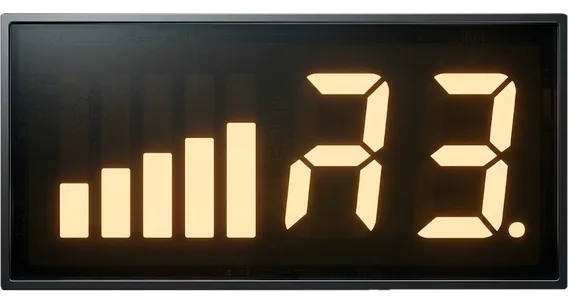
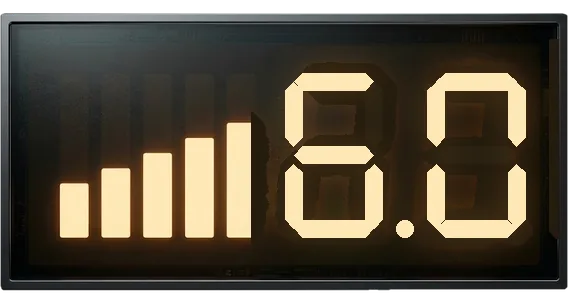
Brighter sun and a readable inverter readout
The sun: SLIDES[i].lum paints a black overlay over the whole scene, so a pure
white sun rendered as a grey disc (255 * (1 - .46) = 138, measured). Layers
flagged top:1 now build into .pw-above, outside .pw-slide -- the transition
gives the active slide a z-index, which makes it a stacking context, and a
z-index inside one cannot lift anything above something outside it. Sun core
now renders 255,255,255.

The inverter LCD: the generated glyphs were not digits. draw_lcd() keeps the
bar graph and backlit glass and paints a real seven-segment 6.0 over them,
matching the 6 kW in the copy. The bloom is built from the lit segments alone
(built from all of them, the dark ones glowed and every digit read as an 8),
and the wipe threshold is far below the detection one so the old glyphs' glow
does not survive as extra lit segments.

Changed region(s): [[0.419, 0.2072, 0.9278, 0.7993], [0.9577, 0.1184, 0.9877, 0.7993]]

diff --git a/index.html b/index.html
@@ -37,6 +37,11 @@
   .pw-scene,.pw-fx{position:absolute;left:50%;top:50%;width:1280px;height:900px;transform:translate(-50%,-50%) scale(var(--s))}
   /* the current sits above the dimmer — it is the brightest thing on screen */
   .pw-fx{pointer-events:none;z-index:13}
+  /* Layers flagged top:1 ride above the dimmer: a light source should not be dimmed by how
+     lit the scene it is lighting happens to be. This has to live OUTSIDE .pw-slide — the
+     transition gives the active slide a z-index, which makes it a stacking context, and
+     nothing inside one can be raised above something outside it. */
+  .pw-above{position:absolute;inset:0;z-index:11;pointer-events:none;visibility:hidden}
   .pw-layer{position:absolute;will-change:transform,opacity}
   .pw-layer img{position:absolute;inset:0;width:100%;height:100%;object-fit:contain;pointer-events:none;user-select:none}
   .pw-layer .gl{position:absolute;inset:-18%;border-radius:50%;opacity:0;pointer-events:none;
@@ -219,6 +224,7 @@
   </div>
 
   <div class="pw-lum" id="lum"></div>
+  <div class="pw-above" id="above"></div>
   <div class="pw-flash" id="flash"></div>
   <div class="pw-scrim"></div>
 
@@ -362,7 +368,7 @@ const LAYOUT = {
   ],
 
   panels:[
-    L('sun',       922, 136,  226, 226, 'sun',   { label:'sun<br>226×226', glow:.5,
+    L('sun',       922, 136,  226, 226, 'sun',   { label:'sun<br>226×226', glow:.5, top:1,
                                                    in:{ delay:.1, dur:1.6, ease:'power2.out', from:{ x:'right', y:-120, rotation:-90, opacity:0 } }, out:{ dur:1.1, to:{ x:'right', rotation:90, opacity:0 } } }),
     L('cloud',     104, 126,  306, 122, 'cloud', { label:'cloud<br>306×122', in:{ delay:0, dur:1.9, ease:'power1.out', from:{ x:'left', opacity:0 } }, out:{ dur:1.3, to:{ x:-420, opacity:0 } } }),
     L('beam1',     372,  72,   46, 300, 'beam',  { label:'', rot:16, in:{ delay:.85, dur:.9, ease:'power2.out', from:{ scaleY:0, opacity:0 } }, out:{ dur:.5, to:{ scaleY:0, opacity:0 } } }),
@@ -440,6 +446,7 @@ const thumbsN = document.getElementById('thumbs');
 const spark   = document.getElementById('spark');
 const flash   = document.getElementById('flash');
 const lumEl   = document.getElementById('lum');
+const aboveEl = document.getElementById('above');
 const kwhEl   = document.getElementById('kwh');
 const barsEl  = document.getElementById('bars');
 const progEl  = document.getElementById('prog');
@@ -472,6 +479,9 @@ const slides = SLIDES.map((s, i) => {
 
   const scene = document.createElement('div');
   scene.className = 'pw-scene';
+  const sceneTop = document.createElement('div');
+  sceneTop.className = 'pw-scene';
+  aboveEl.appendChild(sceneTop);
 
   const layers = (LAYOUT[s.key] || []).map(def => {
     const d = document.createElement('div');
@@ -485,7 +495,7 @@ const slides = SLIDES.map((s, i) => {
     let gl = null;
     if (def.glow != null) { gl = document.createElement('i'); gl.className = 'gl'; d.appendChild(gl); }
     gsap.set(d, rest(def));
-    scene.appendChild(d);
+    (def.top ? sceneTop : scene).appendChild(d);
     return { el:d, gl, L:def };
   });
 
@@ -523,7 +533,7 @@ const slides = SLIDES.map((s, i) => {
   th.addEventListener('click', () => goTo(i));
   thumbsN.appendChild(th);
 
-  return { el, bg, scene, layers, pins, text:t, lines:[...t.querySelectorAll('[data-y]')], thumb:th, data:s };
+  return { el, bg, scene, top:sceneTop, layers, pins, text:t, lines:[...t.querySelectorAll('[data-y]')], thumb:th, data:s };
 });
 
 /* ---- helpers --------------------------------------------------------- */
@@ -645,6 +655,7 @@ function goTo(next, dir) {
   from.el.style.zIndex = 2;
   to.el.style.zIndex   = 3;
   to.el.style.visibility = 'visible';
+  to.top.style.visibility = 'visible';
 
   layersPrep(to, dir);
   surge(dir);
@@ -658,7 +669,7 @@ function goTo(next, dir) {
   readouts(to, next);
 
   gsap.delayedCall(T.lock, () => {
-    if (slides[cur] !== from) from.el.style.visibility = 'hidden';
+    if (slides[cur] !== from) { from.el.style.visibility = 'hidden'; from.top.style.visibility = 'hidden'; }
     busy = false;
     if (AUTO) queue();
   });
@@ -684,6 +695,7 @@ document.getElementById('lang').addEventListener('click', e => {
 
 /* ---- intro ----------------------------------------------------------- */
 slides[0].el.style.visibility = 'visible';
+slides[0].top.style.visibility = 'visible';
 slides[0].el.style.zIndex = 3;
 slides[0].thumb.classList.add('is-active');
 layersPrep(slides[0], 1);
@@ -695,7 +707,7 @@ readouts(slides[0], 0);
 function fit() {
   const r = stage.getBoundingClientRect();
   const s = Math.max(r.width / W, r.height / H);
-  document.querySelectorAll('.pw-stage, .pw-fx').forEach(n => n.style.setProperty('--s', s));
+  document.querySelectorAll('.pw-stage, .pw-fx, .pw-above').forEach(n => n.style.setProperty('--s', s));
 }
 fit();
 addEventListener('resize', fit);

diff --git a/index.src.html b/index.src.html
@@ -37,6 +37,11 @@
   .pw-scene,.pw-fx{position:absolute;left:50%;top:50%;width:1280px;height:900px;transform:translate(-50%,-50%) scale(var(--s))}
   /* the current sits above the dimmer — it is the brightest thing on screen */
   .pw-fx{pointer-events:none;z-index:13}
+  /* Layers flagged top:1 ride above the dimmer: a light source should not be dimmed by how
+     lit the scene it is lighting happens to be. This has to live OUTSIDE .pw-slide — the
+     transition gives the active slide a z-index, which makes it a stacking context, and
+     nothing inside one can be raised above something outside it. */
+  .pw-above{position:absolute;inset:0;z-index:11;pointer-events:none;visibility:hidden}
   .pw-layer{position:absolute;will-change:transform,opacity}
   .pw-layer img{position:absolute;inset:0;width:100%;height:100%;object-fit:contain;pointer-events:none;user-select:none}
   .pw-layer .gl{position:absolute;inset:-18%;border-radius:50%;opacity:0;pointer-events:none;
@@ -219,6 +224,7 @@
   </div>
 
   <div class="pw-lum" id="lum"></div>
+  <div class="pw-above" id="above"></div>
   <div class="pw-flash" id="flash"></div>
   <div class="pw-scrim"></div>
 
@@ -362,7 +368,7 @@ const LAYOUT = {
   ],
 
   panels:[
-    L('sun',       922, 136,  226, 226, 'sun',   { label:'sun<br>226×226', glow:.5,
+    L('sun',       922, 136,  226, 226, 'sun',   { label:'sun<br>226×226', glow:.5, top:1,
                                                    in:{ delay:.1, dur:1.6, ease:'power2.out', from:{ x:'right', y:-120, rotation:-90, opacity:0 } }, out:{ dur:1.1, to:{ x:'right', rotation:90, opacity:0 } } }),
     L('cloud',     104, 126,  306, 122, 'cloud', { label:'cloud<br>306×122', in:{ delay:0, dur:1.9, ease:'power1.out', from:{ x:'left', opacity:0 } }, out:{ dur:1.3, to:{ x:-420, opacity:0 } } }),
     L('beam1',     372,  72,   46, 300, 'beam',  { label:'', rot:16, in:{ delay:.85, dur:.9, ease:'power2.out', from:{ scaleY:0, opacity:0 } }, out:{ dur:.5, to:{ scaleY:0, opacity:0 } } }),
@@ -440,6 +446,7 @@ const thumbsN = document.getElementById('thumbs');
 const spark   = document.getElementById('spark');
 const flash   = document.getElementById('flash');
 const lumEl   = document.getElementById('lum');
+const aboveEl = document.getElementById('above');
 const kwhEl   = document.getElementById('kwh');
 const barsEl  = document.getElementById('bars');
 const progEl  = document.getElementById('prog');
@@ -472,6 +479,9 @@ const slides = SLIDES.map((s, i) => {
 
   const scene = document.createElement('div');
   scene.className = 'pw-scene';
+  const sceneTop = document.createElement('div');
+  sceneTop.className = 'pw-scene';
+  aboveEl.appendChild(sceneTop);
 
   const layers = (LAYOUT[s.key] || []).map(def => {
     const d = document.createElement('div');
@@ -485,7 +495,7 @@ const slides = SLIDES.map((s, i) => {
     let gl = null;
     if (def.glow != null) { gl = document.createElement('i'); gl.className = 'gl'; d.appendChild(gl); }
     gsap.set(d, rest(def));
-    scene.appendChild(d);
+    (def.top ? sceneTop : scene).appendChild(d);
     return { el:d, gl, L:def };
   });
 
@@ -523,7 +533,7 @@ const slides = SLIDES.map((s, i) => {
   th.addEventListener('click', () => goTo(i));
   thumbsN.appendChild(th);
 
-  return { el, bg, scene, layers, pins, text:t, lines:[...t.querySelectorAll('[data-y]')], thumb:th, data:s };
+  return { el, bg, scene, top:sceneTop, layers, pins, text:t, lines:[...t.querySelectorAll('[data-y]')], thumb:th, data:s };
 });
 
 /* ---- helpers --------------------------------------------------------- */
@@ -645,6 +655,7 @@ function goTo(next, dir) {
   from.el.style.zIndex = 2;
   to.el.style.zIndex   = 3;
   to.el.style.visibility = 'visible';
+  to.top.style.visibility = 'visible';
 
   layersPrep(to, dir);
   surge(dir);
@@ -658,7 +669,7 @@ function goTo(next, dir) {
   readouts(to, next);
 
   gsap.delayedCall(T.lock, () => {
-    if (slides[cur] !== from) from.el.style.visibility = 'hidden';
+    if (slides[cur] !== from) { from.el.style.visibility = 'hidden'; from.top.style.visibility = 'hidden'; }
     busy = false;
     if (AUTO) queue();
   });
@@ -684,6 +695,7 @@ document.getElementById('lang').addEventListener('click', e => {
 
 /* ---- intro ----------------------------------------------------------- */
 slides[0].el.style.visibility = 'visible';
+slides[0].top.style.visibility = 'visible';
 slides[0].el.style.zIndex = 3;
 slides[0].thumb.classList.add('is-active');
 layersPrep(slides[0], 1);
@@ -695,7 +707,7 @@ readouts(slides[0], 0);
 function fit() {
   const r = stage.getBoundingClientRect();
   const s = Math.max(r.width / W, r.height / H);
-  document.querySelectorAll('.pw-stage, .pw-fx').forEach(n => n.style.setProperty('--s', s));
+  document.querySelectorAll('.pw-stage, .pw-fx, .pw-above').forEach(n => n.style.setProperty('--s', s));
 }
 fit();
 addEventListener('resize', fit);

diff --git a/_gen/probe.js b/_gen/probe.js
@@ -1,0 +1,30 @@
+const { spawn } = require('child_process'), fs=require('fs'), path=require('path'), os=require('os');
+const CHROME=['C:/Program Files/Google/Chrome/Application/chrome.exe','C:/Program Files (x86)/Google/Chrome/Application/chrome.exe'].find(fs.existsSync);
+const PORT=9700+(process.pid%200), PROFILE=path.join(os.tmpdir(),'probe-'+Date.now().toString(36));
+const root=path.resolve(__dirname,'..');
+const url='file:///'+path.join(root,'index.html').split(String.fromCharCode(92)).join('/');
+const sleep=ms=>new Promise(r=>setTimeout(r,ms));
+(async()=>{
+  const ch=spawn(CHROME,['--headless=new',`--remote-debugging-port=${PORT}`,`--user-data-dir=${PROFILE}`,'--allow-file-access-from-files','about:blank'],{stdio:'ignore'});
+  let t; for(let i=0;i<60&&!t;i++){await sleep(250);try{t=await (await fetch(`http://127.0.0.1:${PORT}/json`)).json()}catch{}}
+  const ws=new WebSocket(t.find(x=>x.type==='page').webSocketDebuggerUrl);
+  await new Promise(r=>ws.onopen=r);
+  let n=0; const p={}; ws.onmessage=e=>{const m=JSON.parse(e.data); if(p[m.id]){p[m.id](m.result||m.error); delete p[m.id]}};
+  const send=(method,params={})=>new Promise(r=>{p[++n]=r; ws.send(JSON.stringify({id:n,method,params}))});
+  await send('Runtime.enable'); await send('Page.enable');
+  await send('Emulation.setDeviceMetricsOverride',{width:1440,height:810,deviceScaleFactor:1,mobile:false});
+  await send('Page.navigate',{url}); await sleep(2500);
+  await send('Runtime.evaluate',{expression:'window.pw&&window.pw.goTo(1)'}); await sleep(1800);
+  const q=(e)=>send('Runtime.evaluate',{expression:e,returnByValue:true});
+  let r=await q("(()=>{const l=document.getElementById('lum');const c=getComputedStyle(l);return JSON.stringify({z:c.zIndex,op:c.opacity,pos:c.position,parent:l.parentElement.className,idx:[...l.parentElement.children].indexOf(l),stageIdx:[...l.parentElement.children].findIndex(n=>n.id==='stage')})})()");
+  console.log('LUM', r.result.value);
+  const shot=async(tag)=>{const s=await send('Page.captureScreenshot',{format:'png'});require('fs').writeFileSync(require('path').join(root,'_shots','probe-'+tag+'.png'),Buffer.from(s.data,'base64'));};
+  r=await q("(()=>{const el=[...document.querySelectorAll('[data-layer=\"sun\"]')].find(n=>n.offsetParent!==null)||document.querySelector('[data-layer=\"sun\"]');const out=[];let e=el;while(e&&e!==document.documentElement){const c=getComputedStyle(e);out.push(e.className+' z='+c.zIndex+' tr='+(c.transform==='none'?'-':'YES')+' op='+c.opacity+' wc='+c.willChange+' vis='+c.visibility);e=e.parentElement;}return out.join(String.fromCharCode(10));})()");
+  console.log('CHAIN AFTER goTo(1):'); console.log(r.result.value);
+  await shot('with');
+  await q("document.getElementById('lum').style.opacity=0");
+  await sleep(300);
+  await shot('without');
+  ws.close(); ch.kill(); try{fs.rmSync(PROFILE,{recursive:true,force:true})}catch{}
+  process.exit(0);
+})().catch(e=>{console.error(e);process.exit(1)});

diff --git a/_gen/cut.py b/_gen/cut.py
@@ -52,6 +52,96 @@ def fix_slots(name, found, want):
     return found
 
 
+SEG = {'0': 'ABCDEF', '1': 'BC', '2': 'ABGED', '3': 'ABGCD', '4': 'FGBC',
+       '5': 'AFGCD', '6': 'AFGEDC', '7': 'ABC', '8': 'ABCDEFG', '9': 'ABCDFG'}
+LIT, DIM, BLOOM = (254, 232, 182), (58, 48, 28), (255, 168, 60)
+
+
+def _seg_polys(x, y, w, h, t, g=None):
+    """the seven chamfered bars of a seven-segment digit, keyed A-G"""
+    g = round(t * 0.55) if g is None else g
+    m, hw = y + h / 2, t / 2
+    def hor(cy):
+        return [(x + g, cy), (x + hw + g, cy - hw), (x + w - hw - g, cy - hw),
+                (x + w - g, cy), (x + w - hw - g, cy + hw), (x + hw + g, cy + hw)]
+    def ver(cx, y0, y1):
+        return [(cx, y0 + g), (cx + hw, y0 + hw + g), (cx + hw, y1 - hw - g),
+                (cx, y1 - g), (cx - hw, y1 - hw - g), (cx - hw, y0 + hw + g)]
+    return {'A': hor(y + hw), 'D': hor(y + h - hw), 'G': hor(m),
+            'F': ver(x + hw, y, m), 'B': ver(x + w - hw, y, m),
+            'E': ver(x + hw, m, y + h), 'C': ver(x + w - hw, m, y + h)}
+
+
+def draw_lcd(img, text='6.0'):
+    """Repaint the inverter's digits. Gemini renders plausible-looking glyphs that are not
+    actually numbers, and no prompt fixes that, so the readout is drawn instead. The bar
+    graph and the backlit glass it came back with are kept."""
+    from PIL import ImageDraw, ImageFilter
+    a = np.asarray(img.convert('RGBA')).astype(int)
+    lit = (a[..., :3].mean(2) > 150) & (a[..., 3] > 200)
+    col = lit.sum(0)
+    runs, s = [], None                                   # lit column runs: bars, then digits
+    for x, v in enumerate(np.append(col, 0)):
+        if v and s is None: s = x
+        elif not v and s is not None: runs.append((s, x)); s = None
+    runs = [r for r in runs if r[1] - r[0] > 8]
+    if len(runs) < 2:
+        return img
+    x0, x1 = runs[1][0], runs[-1][1]                     # everything right of the bar graph
+    ys = np.where(lit[:, x0:x1].any(1))[0]
+    y0, y1 = int(ys.min()), int(ys.max())
+    h = y1 - y0
+    t = max(5, round(h * 0.105))
+
+    # Wipe only the pixels the old glyphs actually lit, refilled with the dark glass around
+    # them. A plain rectangle leaves a visible seam: the glass is not one flat colour.
+    # The wipe threshold has to be far lower than the detection one. `lit` finds only the
+    # cores of the old glyphs; their glow and antialiased edges sit around 60-150 and, left
+    # behind, read as extra lit segments -- which is what made the 6 look like an 8.
+    reg = (slice(max(0, y0 - 2 * t), y1 + 2 * t), slice(max(0, x0 - 2 * t), x1 + 2 * t))
+    patch = a[reg].copy()
+    old = ndimage.binary_dilation(patch[..., :3].mean(2) > 55, iterations=max(3, t // 2))
+    dark = patch[..., :3][~old]
+    patch[..., :3][old] = np.median(dark, axis=0) if len(dark) else (26, 23, 14)
+    a[reg] = patch
+    base = Image.fromarray(a.clip(0, 255).astype('uint8'), 'RGBA')
+    d = ImageDraw.Draw(base)
+
+    glyphs = [c for c in text if c != '.']
+    dots = text.count('.')
+    gap = round(t * 0.8)
+    dw = (x1 - x0 - gap * (len(glyphs) - 1) - dots * (t + gap)) / len(glyphs)
+    # lit and unlit go on separate layers: the bloom is built from the LIT one alone, or the
+    # dark segments glow too and every digit reads as an 8
+    lay = Image.new('RGBA', base.size, (0, 0, 0, 0))
+    off = Image.new('RGBA', base.size, (0, 0, 0, 0))
+    dl, do = ImageDraw.Draw(lay), ImageDraw.Draw(off)
+    cx = x0
+    for c in text:
+        if c == '.':
+            dl.ellipse([cx, y1 - t, cx + t, y1], fill=LIT + (255,))
+            cx += t + gap
+            continue
+        for k, pts in _seg_polys(cx, y0, dw, h, t).items():
+            if k in SEG.get(c, ''):
+                dl.polygon(pts, fill=LIT + (255,))
+            else:
+                do.polygon(pts, fill=DIM + (70,))
+        cx += dw + gap
+
+    # wide and faint, so it reads as glow rather than thickening the stroke
+    bloom = lay.filter(ImageFilter.GaussianBlur(t * 0.85))
+    tint = Image.new('RGBA', base.size, BLOOM + (0,))
+    tint.putalpha(bloom.split()[3].point(lambda v: int(v * 0.22)))
+    base.alpha_composite(off)
+    base.alpha_composite(tint)
+    base.alpha_composite(lay)
+    return base
+
+
+POST = {'inv_screen': draw_lcd}
+
+
 def save(img, dst, maxw, q):
     if img.width > maxw:
         img = img.resize((maxw, round(img.height * maxw / img.width)), Image.LANCZOS)
@@ -226,6 +316,9 @@ for name in names:
         cut, ox, oy, W, H = pad_to(cut, bw / bh, ANCHOR.get(name, 'center'))
 
     img = save(Image.fromarray(cut, 'RGBA'), f'{IMG}/{name}.webp', min(1100, max(320, bw * 2)), Q)
+    if name in POST:                      # drawn at final size: no resample blur on the segments
+        img = POST[name](img)
+        img.save(f'{IMG}/{name}.webp', 'WEBP', quality=Q, method=6, alpha_quality=AQ)
     meta[name] = {'w': img.width, 'h': img.height}
     print(f'{name:<12} {fit:<6} {img.size}  {os.path.getsize(f"{IMG}/{name}.webp")//1024} KB')
 

diff --git a/README.md b/README.md
@@ -37,6 +37,20 @@ Layers that are pure light — `smoke`, `shadow*`, `beam1..3`, `glow_pool` — a
 gradients on purpose. They are atmosphere, not objects, and a render of them keys badly and
 looks worse.
 
+Two things a generator cannot do, so the pipeline does them instead:
+
+- **The inverter's readout is drawn, not generated.** Gemini renders convincing-looking glyphs
+  that are not actually digits, and no wording fixes it. `draw_lcd()` in `cut.py` keeps the
+  render's bar graph and backlit glass, wipes the old glyphs and paints a real seven-segment
+  `6.0` over them. The wipe threshold is far lower than the one used to find the digits: the
+  glow around the old glyphs sits well below it and, left behind, reads as extra lit segments.
+- **The sun is not dimmed.** Each slide has a black `.pw-lum` overlay set from `SLIDES[i].lum`,
+  which turned a pure white sun into a grey disc. Layers flagged `top:1` in `LAYOUT` are built
+  into `.pw-above`, a container *outside* `.pw-slide`: the transition gives the active slide a
+  `z-index`, making it a stacking context, and nothing inside one can be raised above something
+  outside it. If you flag another layer, it inherits that container's visibility from the slide
+  automatically.
+
 ### Rebuilding the art
 
 ```bash
